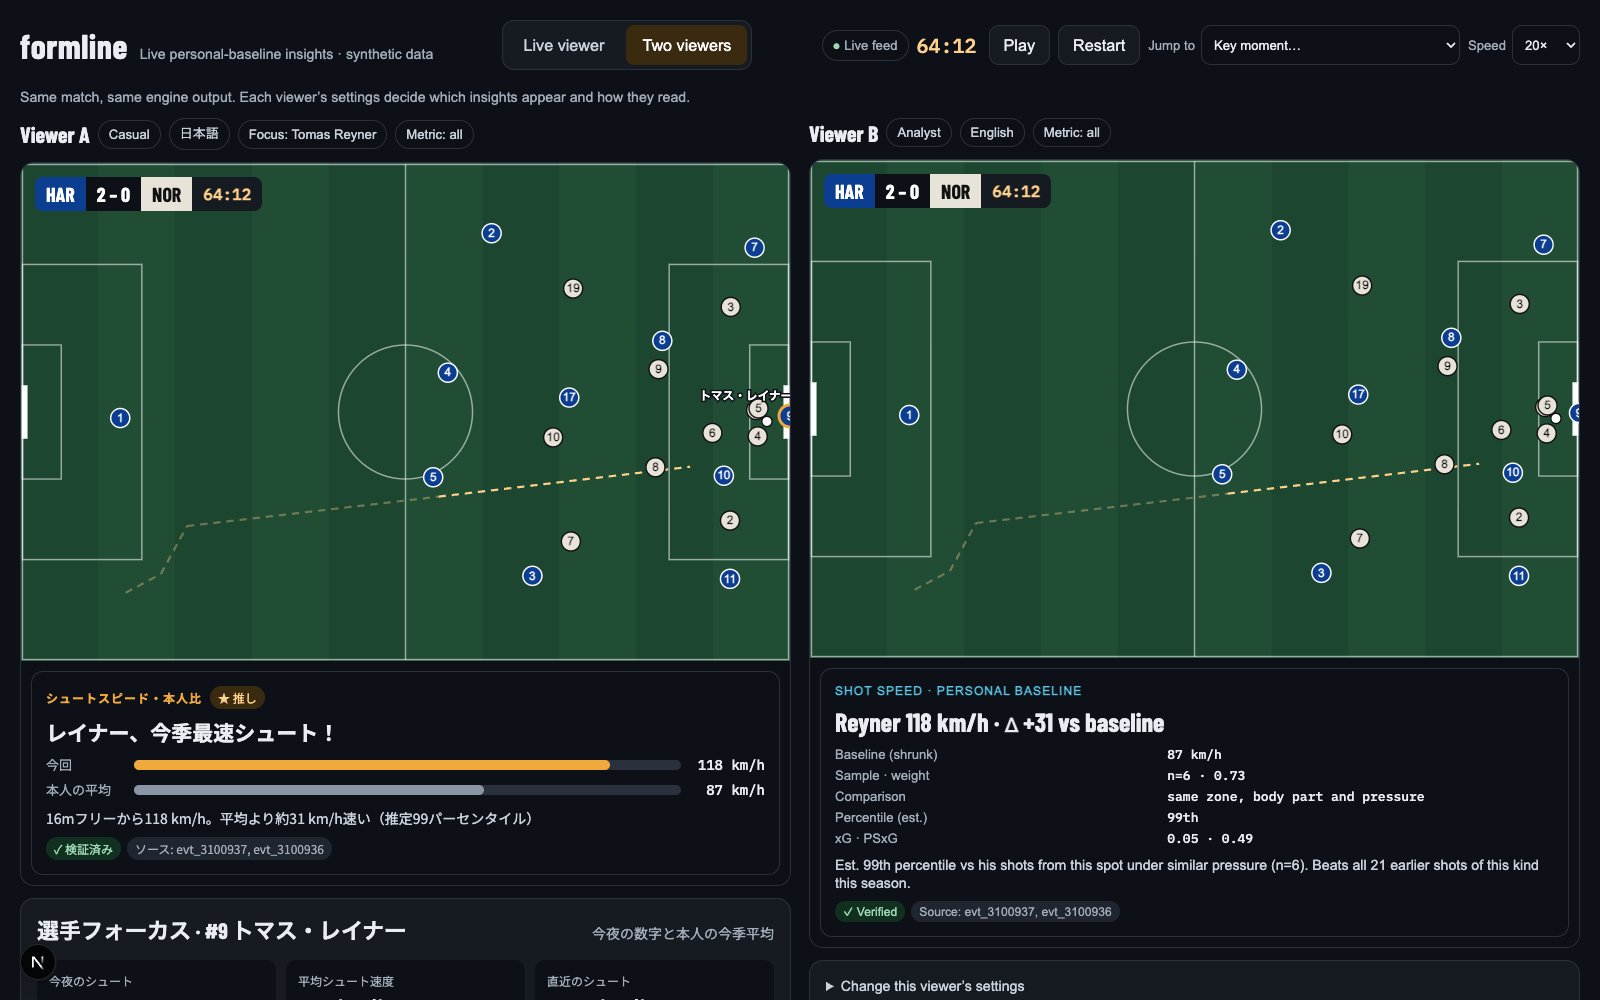
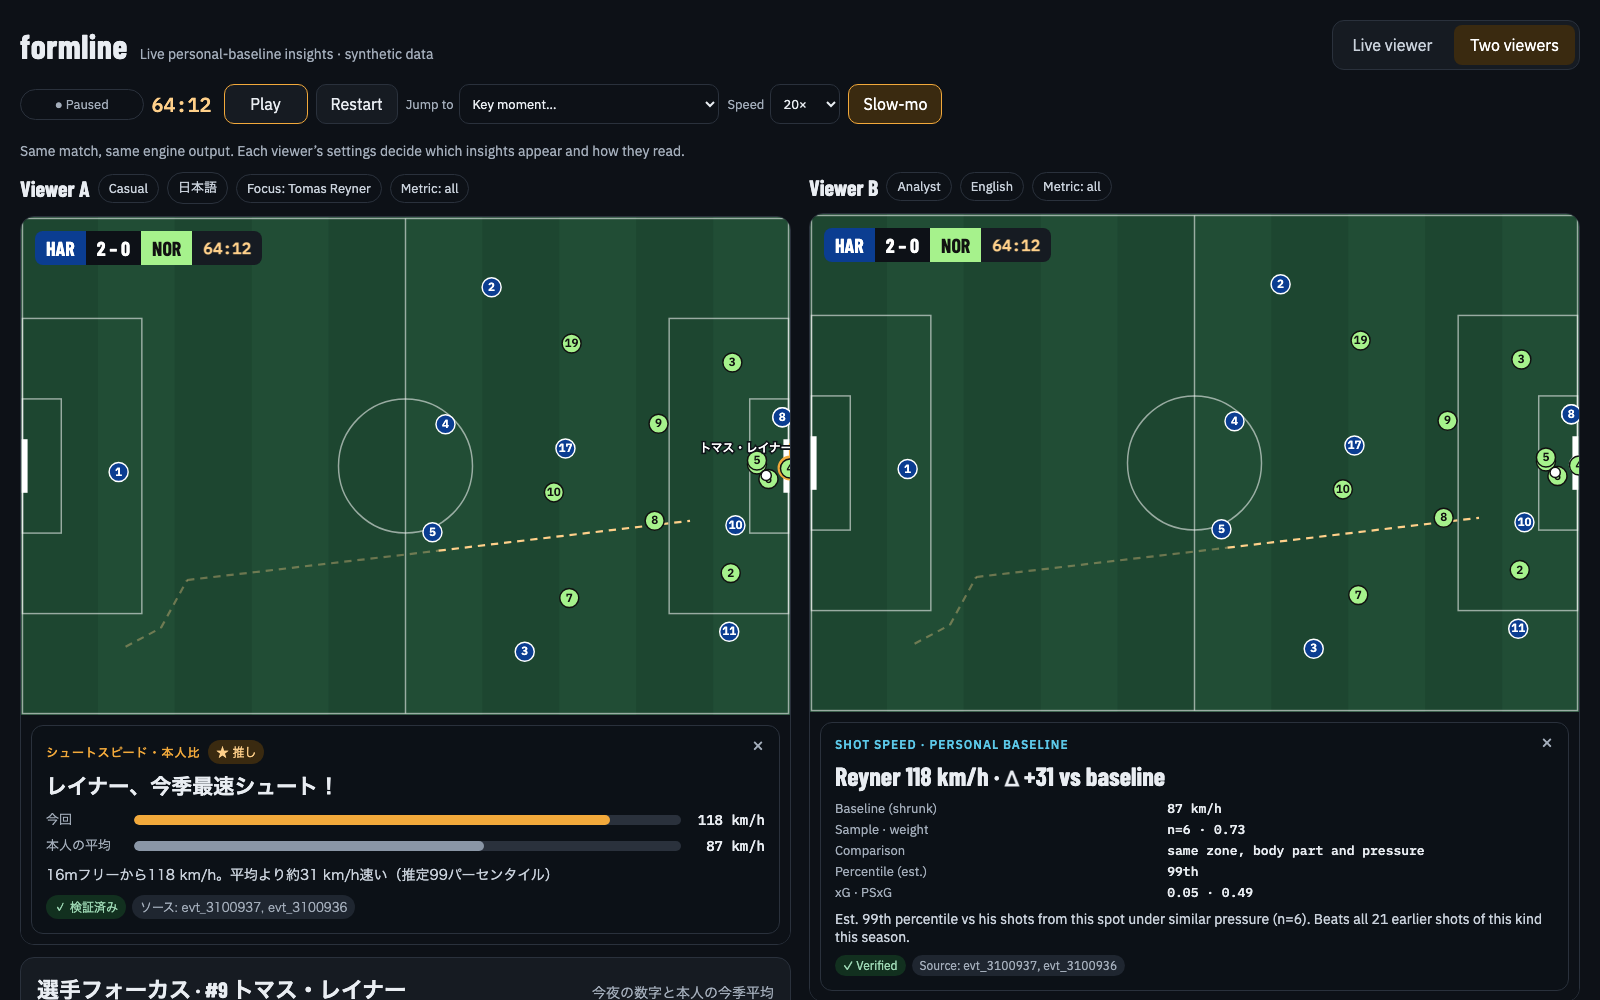
Screenshots from Azure (ca61bc2): two-viewer hero at 64:12, chained Ask question
The Ask screenshot now shows a model-written, verified chained answer
(season leaders -> Okafor's last 3 games) instead of a template fallback.

Claude-Session: https://claude.ai/code/session_01DsL6TdGD9yJTSS1S6KxpcE

diff --git a/README.md b/README.md
@@ -53,7 +53,8 @@ And when an LLM writes on-screen text live, one wrong number or name on air is a
   The panel has two tabs: *Commentary* and *Ask the analyst*: the latest moment's two
   suggested questions, a box to type your own, and the answers asked so far. A typed question
   goes through a Researcher agent that chooses fact tools, reads their results and chains
-  lookups (e.g. season leaders → the top scorer's last three games). Python computes the
+  lookups (e.g. season leaders → the top scorer's last three games;
+  [screenshot](docs/ui/live/analyst-researcher-chain.png)). Python computes the
   facts; the Match Analyst writes the answer, and a deterministic verifier checks numbers,
   entities and estimate wording. A one-shot Question Router is the Researcher's fallback.
   Match weather, synthetic player biographies, recent performances and evidence-based
